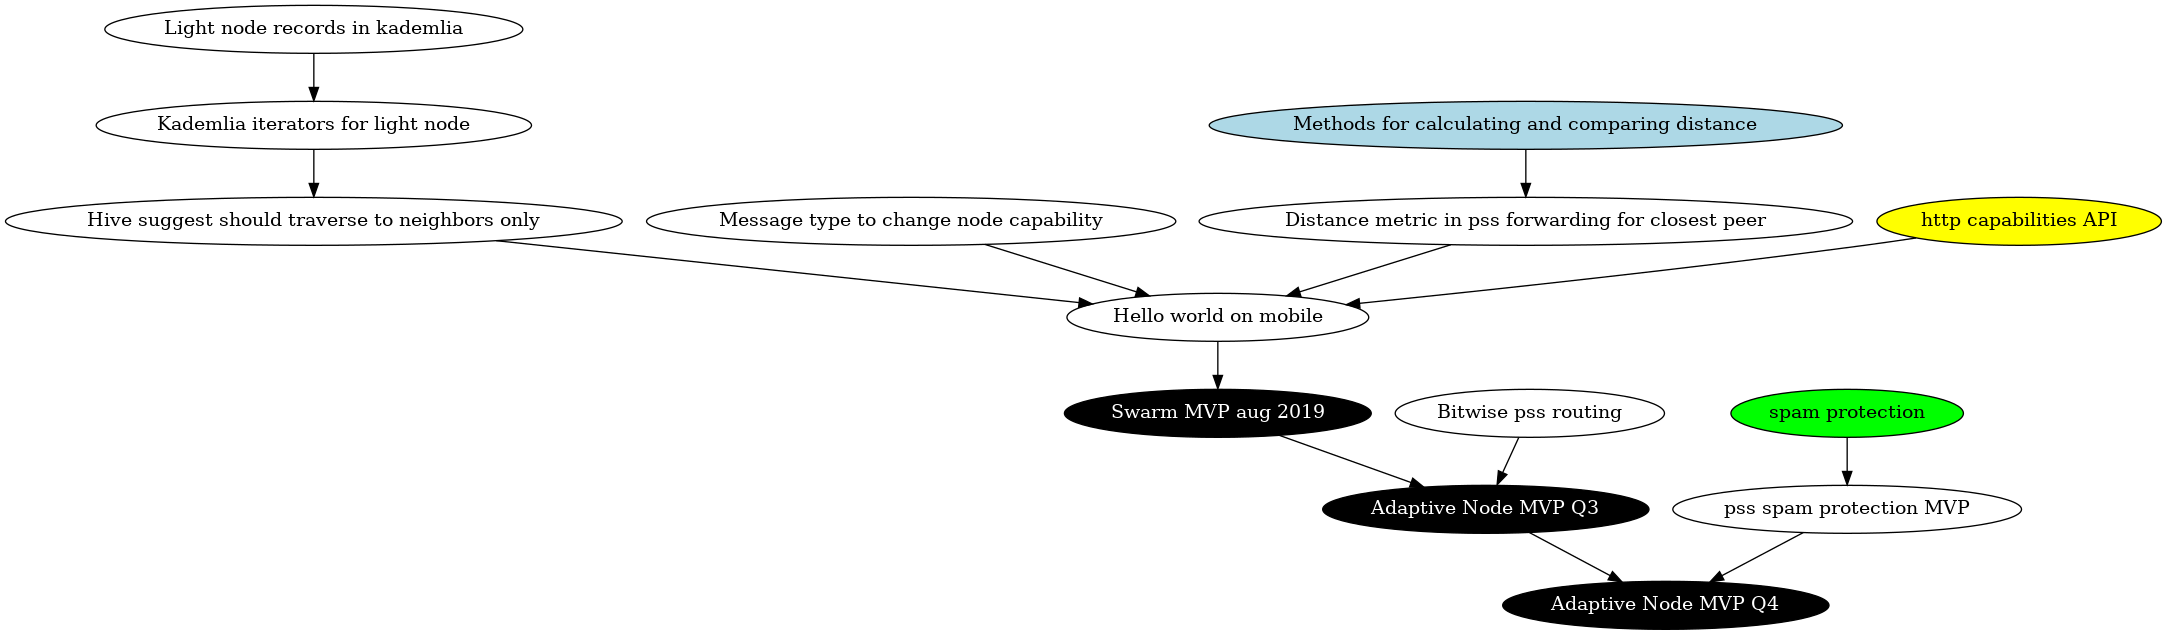
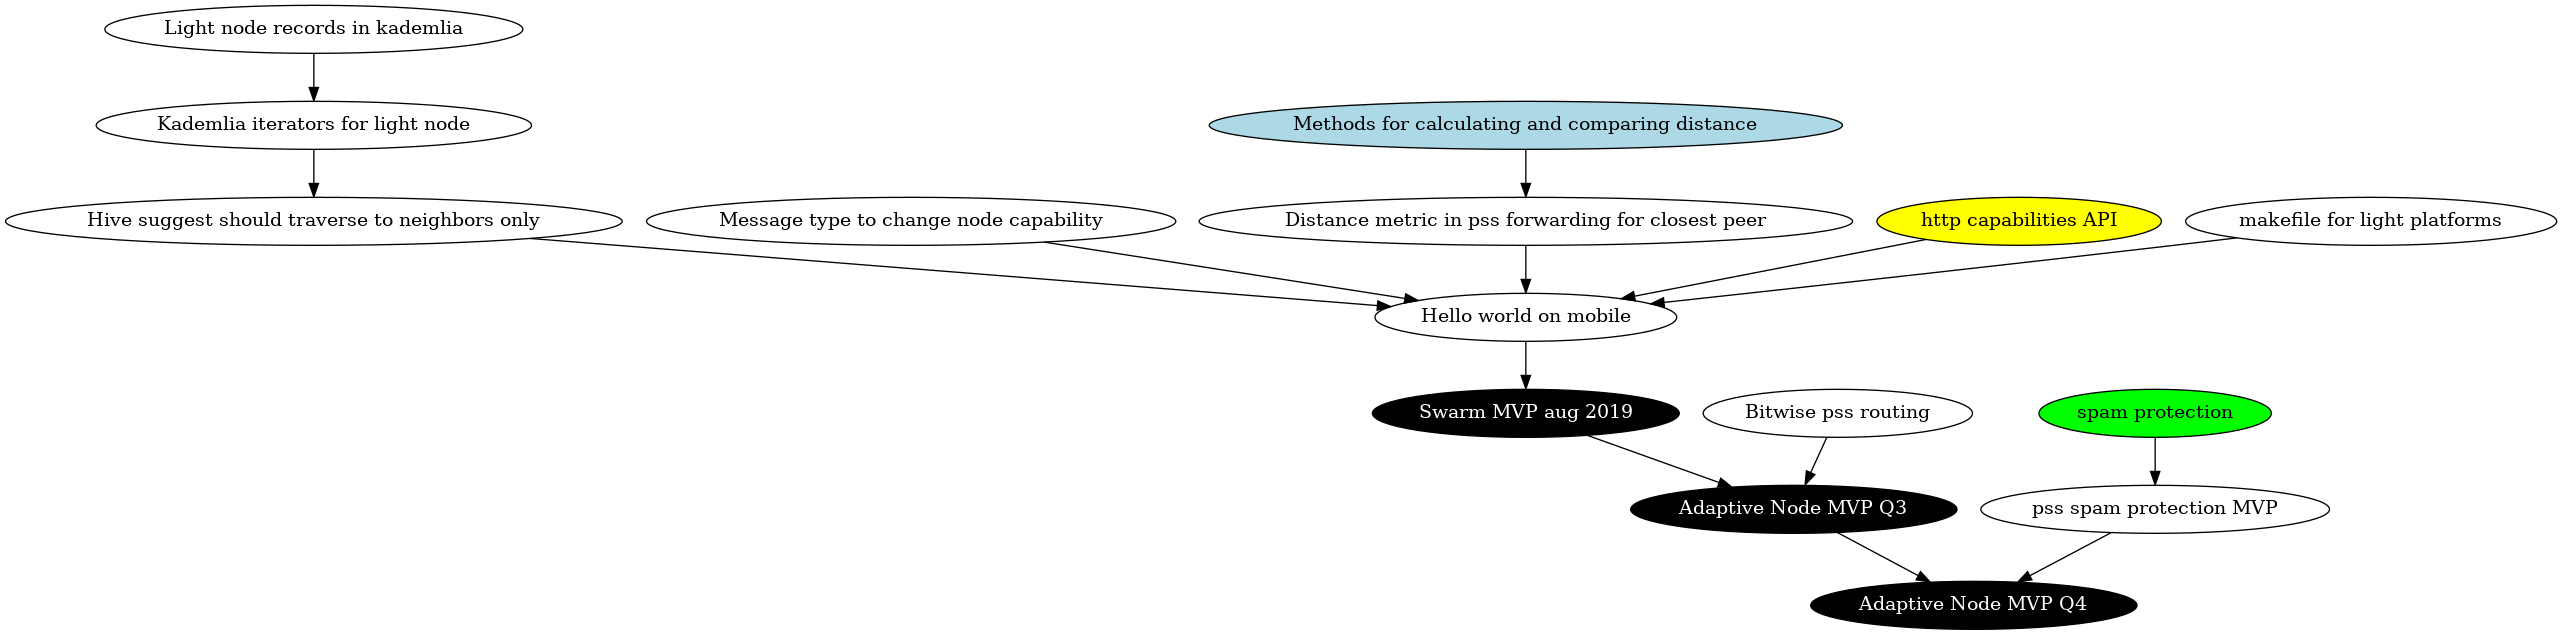
Add make to lightnode task, add title for userstory links

diff --git a/schedule.md b/schedule.md
@@ -13,65 +13,66 @@ relations between tasks can be found in the dependency graph for subtracks:
 |wk| subtrack | task | userstory |
 |:-|:---------|:-----|:----------|
 |26|| _(oskar vacation)_ | |
-|  | bzz,pss | methods for calculating and comparing distance | https://github.com/ethersphere/user-stories/issues/43, https://github.com/ethersphere/user-stories/issues/37 |
-|  | networktest | integrate execadapter in swarm sim | https://github.com/ethersphere/user-stories/issues/44 |
+|  | bzz,pss | methods for calculating and comparing distance | [PSS Light mode](https://github.com/ethersphere/user-stories/issues/43), [Light node bzz retrieve](https://github.com/ethersphere/user-stories/issues/37) |
+|  | networktest | integrate execadapter in swarm sim | [Cluster PSS network testing](https://github.com/ethersphere/user-stories/issues/44) |
 |  | spec | swarm overlay address ||
 |  | spec | handshake protocol ||
 |  | spec | kademlia ||
 |27|| (oskar vacation) ||
-|  | pss,bzz | lightnode records in kademlia | https://github.com/ethersphere/user-stories/issues/43, https://github.com/ethersphere/user-stories/issues/37 |
+|  | pss,bzz | lightnode records in kademlia | [PSS Light mode](https://github.com/ethersphere/user-stories/issues/43), [Light node bzz retrieve ](https://github.com/ethersphere/user-stories/issues/37) |
 |  | pss,bzz | message type to change node capability | https://github.com/ethersphere/user-stories/issues/36 |
-|  | networktest | create and integrate dockeradapter | https://github.com/ethersphere/user-stories/issues/44 |
+|  | networktest | create and integrate dockeradapter | [Cluster PSS network testing](https://github.com/ethersphere/user-stories/issues/44) |
 |  | spec | pss protocol | 
 |  | spec | bzz adaptive mode message ||
 |28|| _(louis vacation)_ ||
+|  | pss,bzz | makefile for light platforms | [Simple compilation of adaptive node](https://github.com/ethersphere/user-stories/issues/41) |
 |29|| _(louis vacation)_ ||
 |  | spec | stream protocol ||
 |  | spec | retrieve protocol ||
 |30||||
-|  | pss,bzz | kademlia iterators for light node | https://github.com/ethersphere/user-stories/issues/43, https://github.com/ethersphere/user-stories/issues/37 |
-|  | networktest | integrate kubernetes orchestrations in simulations | https://github.com/ethersphere/user-stories/issues/44 |
+|  | pss,bzz | kademlia iterators for light node | [PSS Light mode](https://github.com/ethersphere/user-stories/issues/43), [Light node bzz retrieve ](https://github.com/ethersphere/user-stories/issues/37) |
+|  | networktest | integrate kubernetes orchestrations in simulations | [Cluster PSS network testing](https://github.com/ethersphere/user-stories/issues/44) |
 |31||||
-|  | pss | distance metric in pss forwarding for closest peer |  https://github.com/ethersphere/user-stories/issues/43 |
-|  | pss,bzz | http capabilities API | https://github.com/ethersphere/user-stories/issues/43, https://github.com/ethersphere/user-stories/issues/37 |
+|  | pss | distance metric in pss forwarding for closest peer | [PSS Light mode](https://github.com/ethersphere/user-stories/issues/43) |
+|  | pss,bzz | http capabilities API | [PSS Light mode](https://github.com/ethersphere/user-stories/issues/43), [Light node bzz retrieve](https://github.com/ethersphere/user-stories/issues/37) |
 |  | bzz | push sync ||
-|  | networktest | api to detect received pss | https://github.com/ethersphere/user-stories/issues/44 |
+|  | networktest | api to detect received pss | [Cluster PSS network testing](https://github.com/ethersphere/user-stories/issues/44) |
 |  | spec | literal addressing ||
 |  | spec | proximity addressing ||
 |  | spec | forwarding ||
 |32||||
 |  | pss | hive suggest should traverse to neighbors only ||
-|  | networktest | pss hello world test with docker nodes | https://github.com/ethersphere/user-stories/issues/44 | 
+|  | networktest | pss hello world test with docker nodes | [Cluster PSS network testing](https://github.com/ethersphere/user-stories/issues/44) | 
 |  | spec | hive ||
 |  | spec | discovery protocol ||
 |33||||
-|  | pss | pss smoke tests | https://github.com/ethersphere/user-stories/issues/44 |
-|  | pss | hello world on mobile | https://github.com/ethersphere/user-stories/issues/40 |
-|  | bzz | streaming protocol refactor | https://github.com/ethersphere/user-stories/issues/37 |
-|  | bzz | explicit retrieve protocol | https://github.com/ethersphere/user-stories/issues/37 |
-|  | networktest | churn simulator | https://github.com/ethersphere/user-stories/issues/44 |
+|  | pss | pss smoke tests | [Cluster PSS network testing](https://github.com/ethersphere/user-stories/issues/44) |
+|  | pss | hello world on mobile | [Hello PSS on mobile](https://github.com/ethersphere/user-stories/issues/40), [Simple compilation of adaptive node](https://github.com/ethersphere/user-stories/issues/41)) |
+|  | bzz | streaming protocol refactor | [Light node bzz retrieve](https://github.com/ethersphere/user-stories/issues/37) |
+|  | bzz | explicit retrieve protocol | [Light node bzz retrieve](https://github.com/ethersphere/user-stories/issues/37) |
+|  | networktest | churn simulator | [Cluster PSS network testing](https://github.com/ethersphere/user-stories/issues/44) |
 |  | spec | bmthasher ||
 |  | spec | filehasher ||
 |34||||
-|  | bzz | hive suggest random one node | https://github.com/ethersphere/user-stories/issues/37|
-|  | bzz | hive suggest n random nodes | https://github.com/ethersphere/user-stories/issues/37 |
-|  | networktest | bandwidth simulator | https://github.com/ethersphere/user-stories/issues/44 |
+|  | bzz | hive suggest random one node | [Light node bzz retrieve](https://github.com/ethersphere/user-stories/issues/37) |
+|  | bzz | hive suggest n random nodes | [Light node bzz retrieve](https://github.com/ethersphere/user-stories/issues/37) |
+|  | networktest | bandwidth simulator | [Cluster PSS network testing](https://github.com/ethersphere/user-stories/issues/44) |
 |  | spec | pss message handling ||
 |35||||
-|  | pss | pss test vector spec | https://github.com/ethersphere/user-stories/issues/44 |
-|  | bzz | bzz light node retrieve only | https://github.com/ethersphere/user-stories/issues/37 |
+|  | pss | pss test vector spec | [Cluster PSS network testing](https://github.com/ethersphere/user-stories/issues/44) |
+|  | bzz | bzz light node retrieve only | [Light node bzz retrieve](https://github.com/ethersphere/user-stories/issues/37) |
 |  | spec | pss spec ||
 |  | spec | feeds ||
 |  | all | **SWARM MVP** ||
 |36||||
-|  | bzz | bzz light node retrieve and push | https://github.com/ethersphere/user-stories/issues/38,https://github.com/ethersphere/user-stories/issues/27 |
-|  | pss | bitwise pss routing | https://github.com/ethersphere/user-stories/issues/43 |
+|  | bzz | bzz light node retrieve and push | [Light node bzz retrieve and post](https://github.com/ethersphere/user-stories/issues/38), [Swarm Lightnode on Felfele mobile app](https://github.com/ethersphere/user-stories/issues/27) |
+|  | pss | bitwise pss routing | [PSS Light mode](https://github.com/ethersphere/user-stories/issues/43) |
 |37||||
-|  | networktest | latency simulator | https://github.com/ethersphere/user-stories/issues/44 |
-|  | networktest | drop simulator | https://github.com/ethersphere/user-stories/issues/44 |
-|  | networktest | network testing framework v2 | https://github.com/ethersphere/user-stories/issues/44 |
+|  | networktest | latency simulator | [Cluster PSS network testing](https://github.com/ethersphere/user-stories/issues/44) |
+|  | networktest | drop simulator | [Cluster PSS network testing](https://github.com/ethersphere/user-stories/issues/44) |
+|  | networktest | network testing framework v2 | [Cluster PSS network testing](https://github.com/ethersphere/user-stories/issues/44) |
 |38||||
-|  | networktest | pss 1000 node docker cluster test | https://github.com/ethersphere/user-stories/issues/44 |
+|  | networktest | pss 1000 node docker cluster test | [Cluster PSS network testing](https://github.com/ethersphere/user-stories/issues/44) |
 |  | spec | db ||
 |  | spec | storage ||
 |39||||
